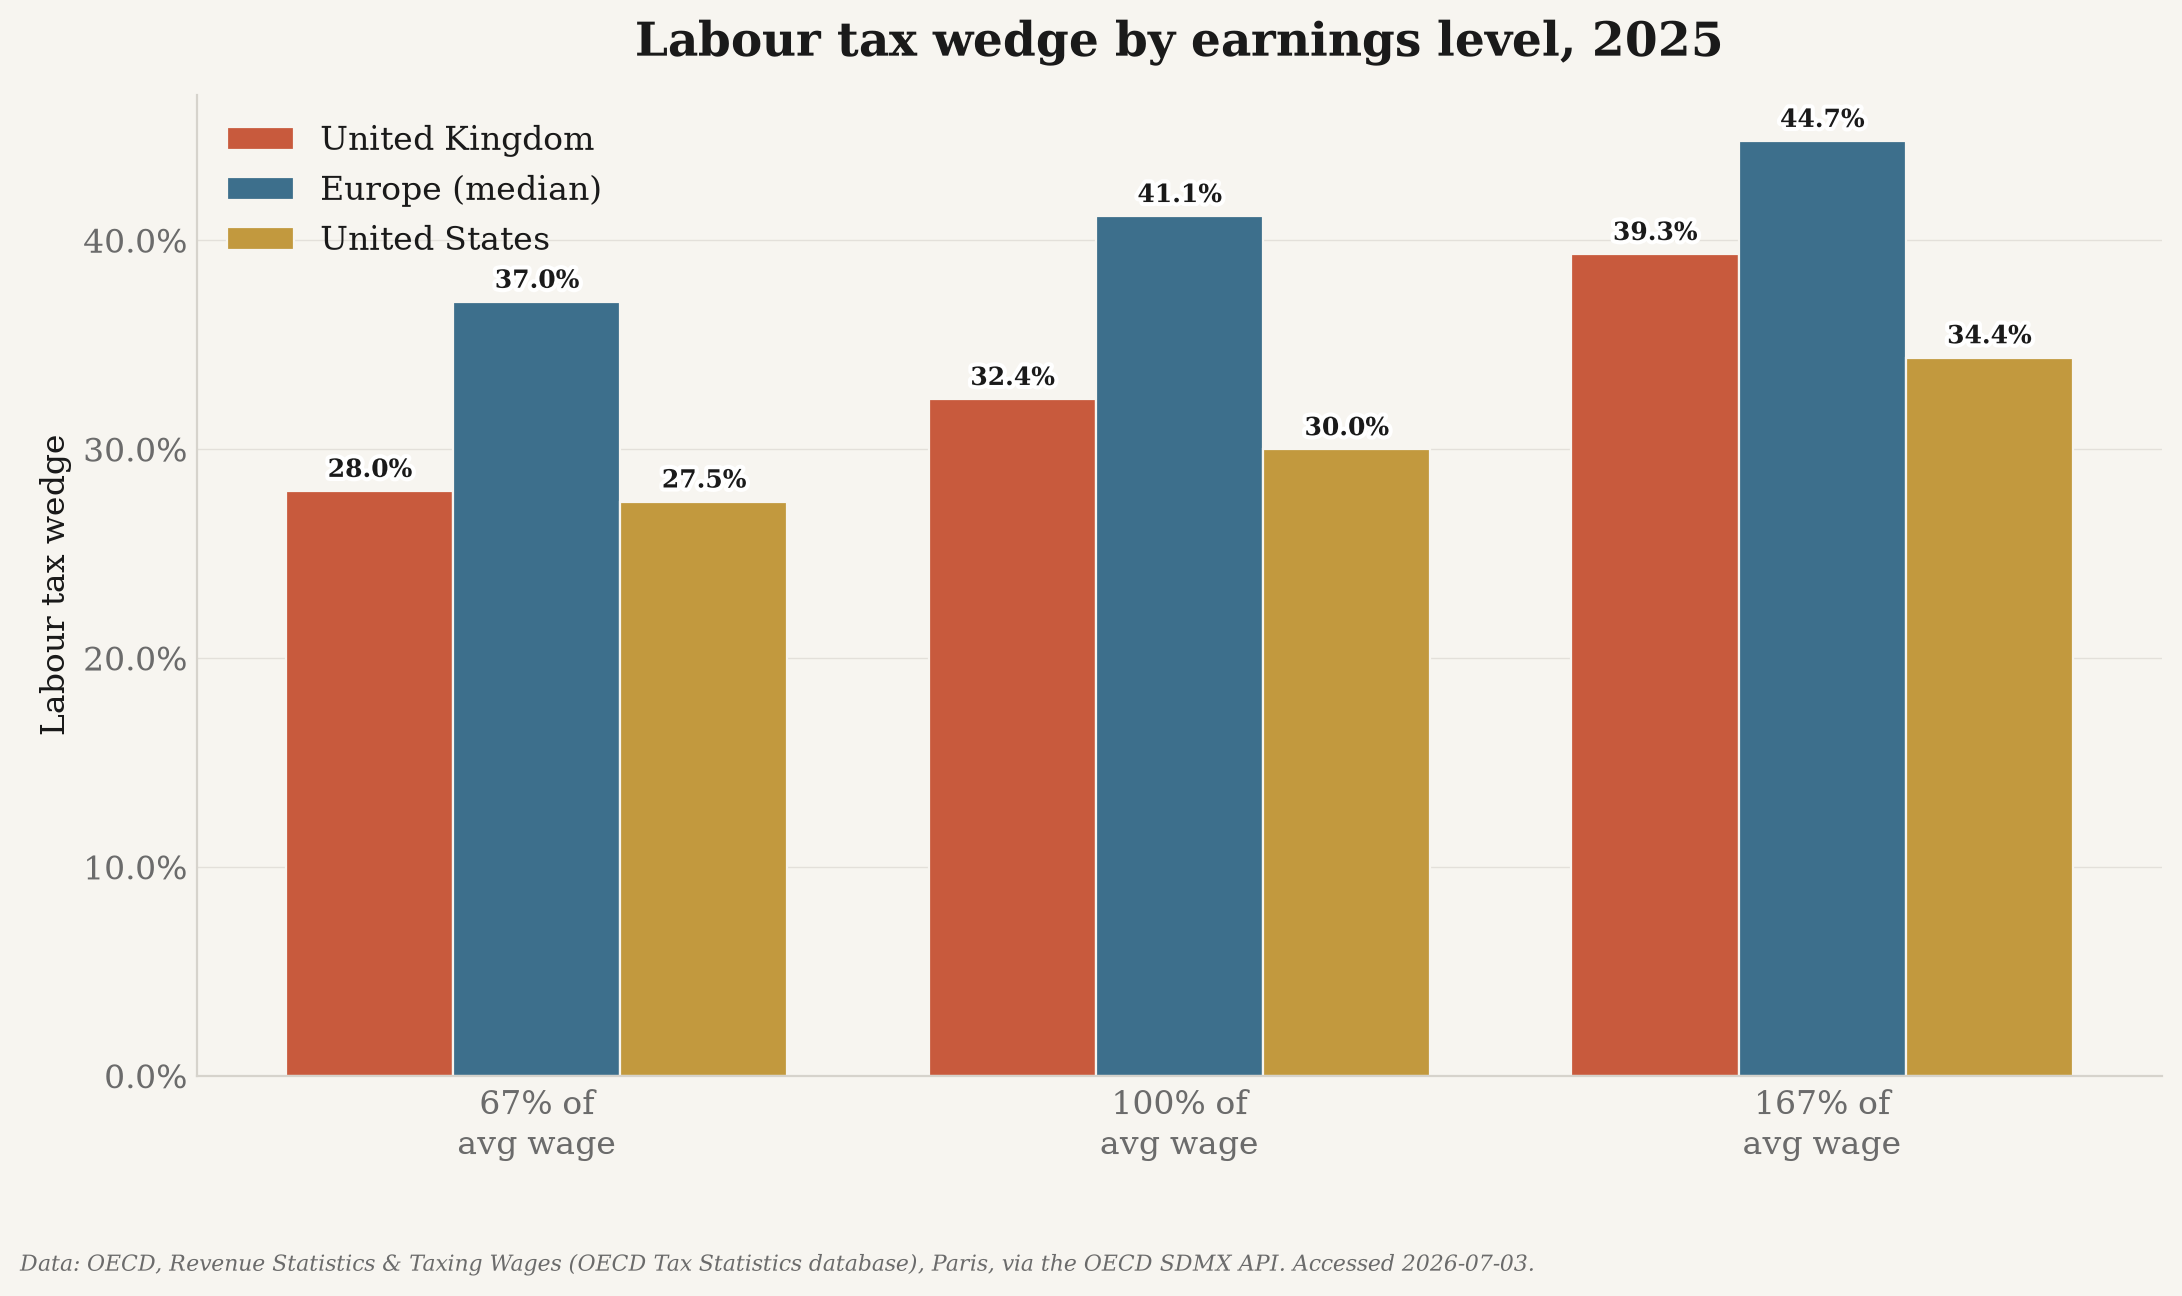
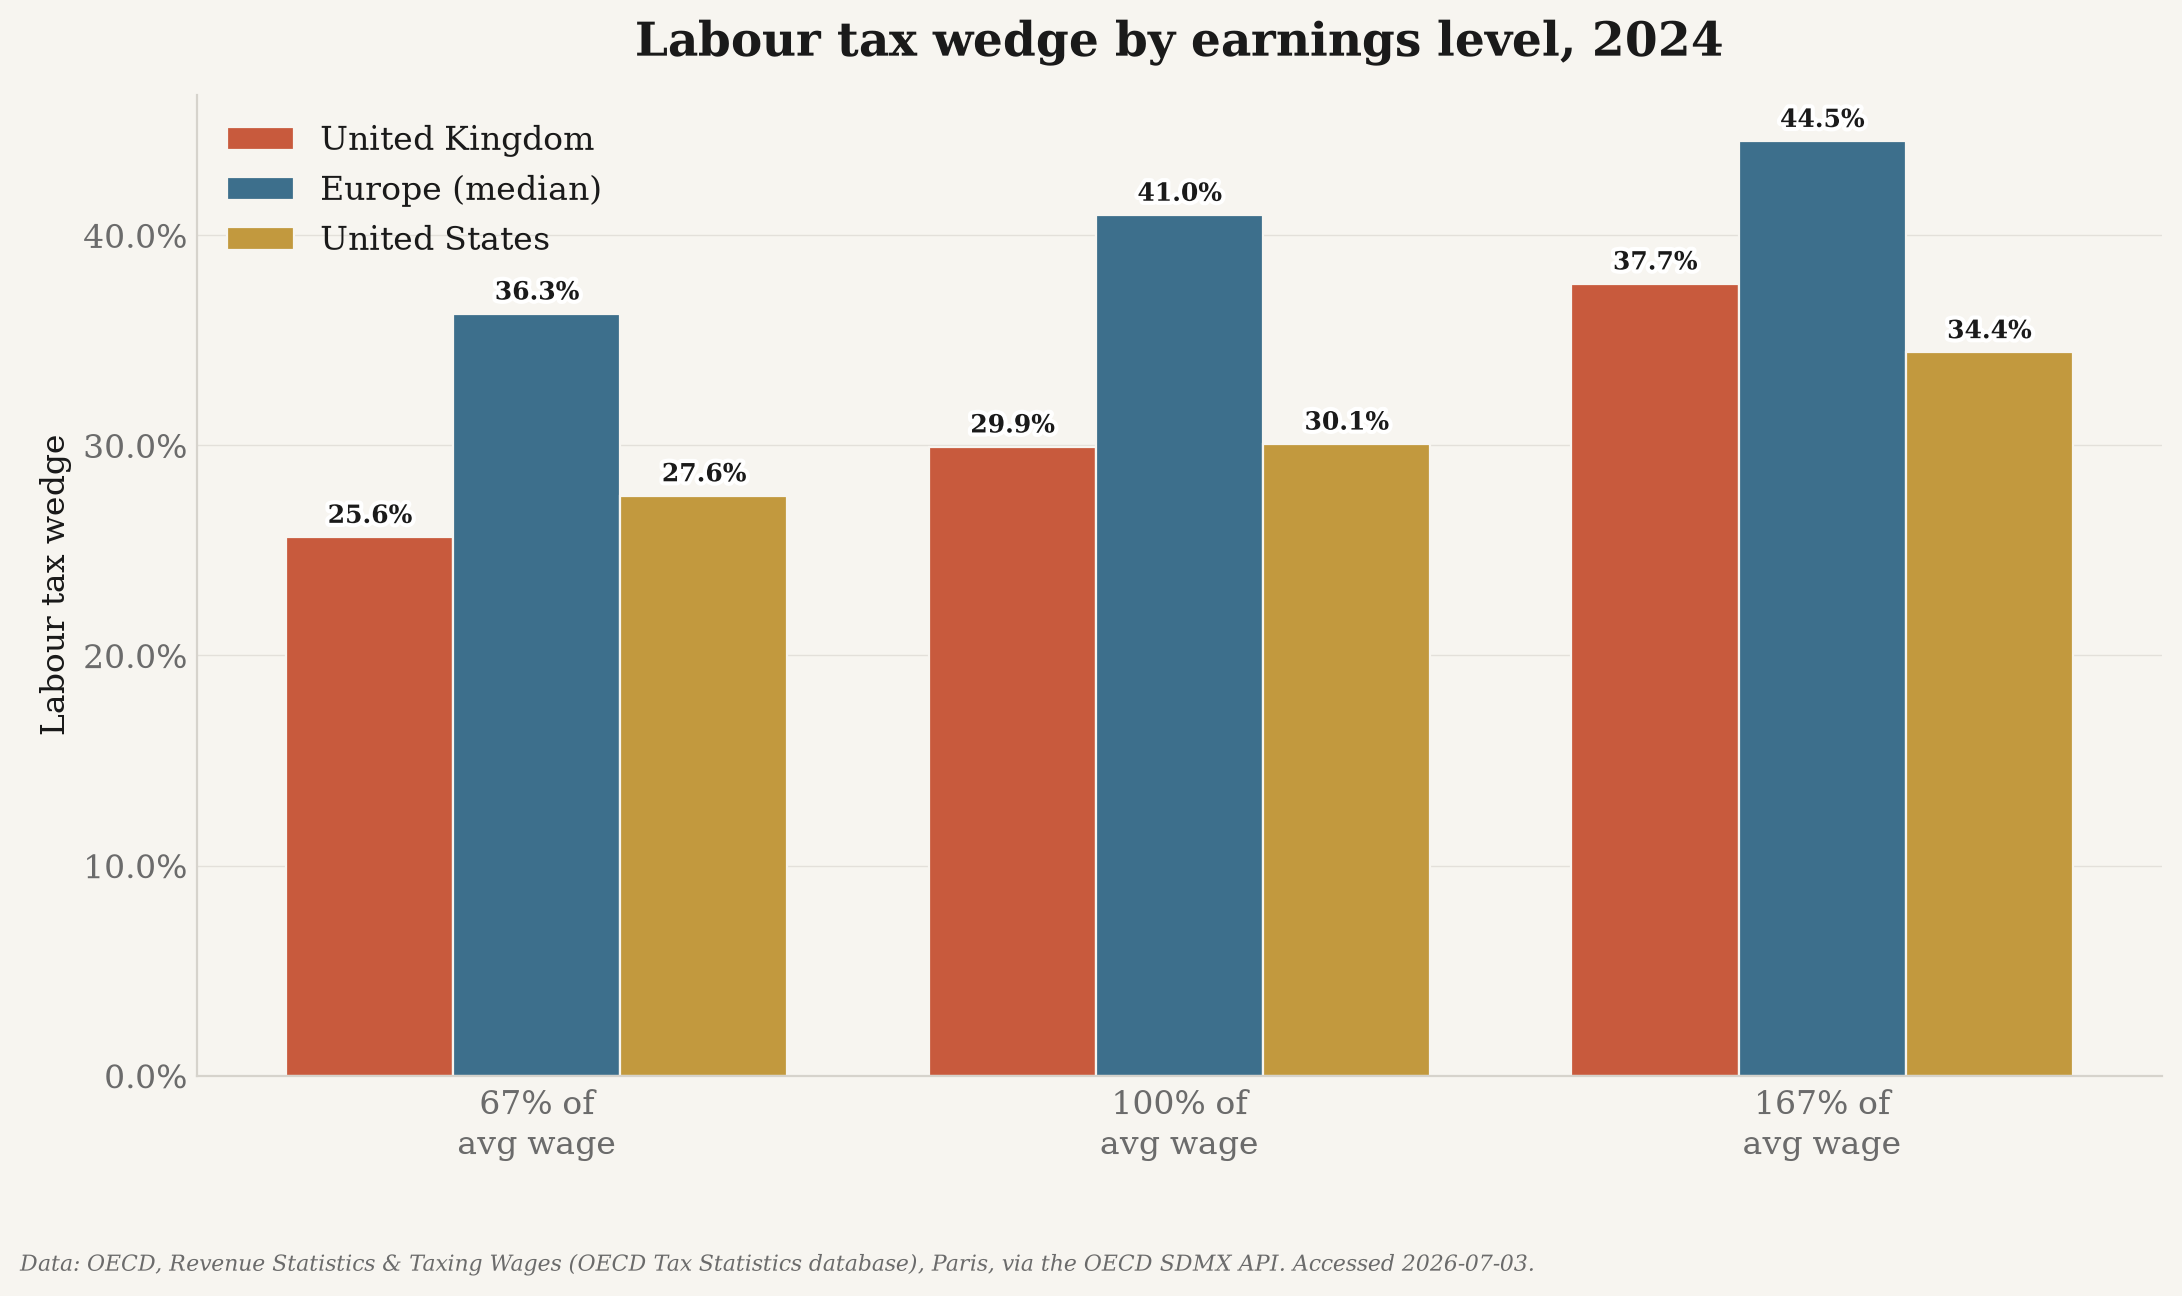
Keep tax comparisons in one observed year and clarify household measures

diff --git a/tax/charts.py b/tax/charts.py
@@ -57,18 +57,27 @@ def _region_values(recs: list[dict]) -> dict[str, Optional[float]]:
     }
 
 
-def _latest_year(recs: list[dict]) -> Optional[int]:
-    """Latest year with UK (then US) data; global max only if neither is present.
-
-    Mirrors ``tax.stats._target_year`` so charts and the printed summary pin the same
-    comparison year instead of a ragged latest OECD vintage that blanks the UK/US.
-    """
-    for iso3 in (config.UK_COUNTRY.iso3, config.US_COUNTRY.iso3):
-        years = [r["year"] for r in recs if r["iso3"] == iso3]
-        if years:
-            return max(years)
-    years = [r["year"] for r in recs]
-    return max(years) if years else None
+def _comparison_year(groups: list[list[dict]], year: Optional[int]) -> Optional[int]:
+    """Latest year shared by the plotted variants, preferring UK coverage in each."""
+    if year is not None:
+        return year
+    year_sets = []
+    for recs in groups:
+        if not recs:
+            continue
+        for iso3 in (config.UK_COUNTRY.iso3, config.US_COUNTRY.iso3):
+            years = {r["year"] for r in recs if r["iso3"] == iso3}
+            if years:
+                break
+        else:
+            years = {r["year"] for r in recs}
+        year_sets.append(years)
+    if not year_sets:
+        return None
+    common = set.intersection(*year_sets)
+    if not common:
+        raise ValueError("tax chart variants have no common comparison year; specify year explicitly")
+    return max(common)
 
 
 # --- charts -----------------------------------------------------------------
@@ -95,10 +104,7 @@ def headline_bars(rows: list[dict], out_path: str, year: Optional[int] = None) -
         (_variant_rows(rows, metric, hh, aw), label)
         for metric, hh, aw, label in variants
     ]
-    if year is None:
-        latest = [_latest_year(recs) for recs, _label in variant_rows]
-        latest = [value for value in latest if value is not None]
-        year = min(latest) if latest else None
+    year = _comparison_year([recs for recs, _label in variant_rows], year)
     labels: list[str] = []
     series: dict[str, list[float]] = {"uk": [], "europe_median": [], "us": []}
     for recs, label in variant_rows:
@@ -185,19 +191,20 @@ def tax_to_gdp_over_time(rows: list[dict], out_path: str) -> Optional[str]:
 def tax_wedge_by_earnings(rows: list[dict], out_path: str, year: Optional[int] = None) -> Optional[str]:
     """Grouped bars: single-worker tax wedge at 67/100/167% of the average wage."""
     order = [("67aw", "67% of\navg wage"), ("100aw", "100% of\navg wage"), ("167aw", "167% of\navg wage")]
+    variant_rows = [
+        (_variant_rows(rows, "tax_wedge_pct", "single_nokids", aw), label)
+        for aw, label in order
+    ]
+    year = _comparison_year([recs for recs, _label in variant_rows], year)
     labels: list[str] = []
     series: dict[str, list[float]] = {"uk": [], "europe_median": [], "us": []}
-    used_year: Optional[int] = None
-    for aw, label in order:
-        recs = _variant_rows(rows, "tax_wedge_pct", "single_nokids", aw)
-        target = year if year is not None else _latest_year(recs)
-        if target is None:
+    for recs, label in variant_rows:
+        if year is None:
             continue
-        vals = _region_values([r for r in recs if r["year"] == target])
+        vals = _region_values([r for r in recs if r["year"] == year])
         if all(v is None for v in vals.values()):
             continue
         labels.append(label)
-        used_year = used_year or target
         for k in series:
             series[k].append(vals[k])
     if not labels:
@@ -234,7 +241,7 @@ def tax_wedge_by_earnings(rows: list[dict], out_path: str, year: Optional[int] =
     ax.yaxis.set_major_formatter(mtick.PercentFormatter())
     ax.set_ylabel("Labour tax wedge")
     ax.set_title(
-        f"Labour tax wedge by earnings level, {used_year}", fontweight="bold", pad=14
+        f"Labour tax wedge by earnings level, {year}", fontweight="bold", pad=14
     )
     ax.legend(loc="upper left", frameon=False)
     return _finish(fig, ax, out_path)

diff --git a/tests/test_tax.py b/tests/test_tax.py
@@ -326,3 +326,45 @@ def test_charts_render_all_writes_pngs(tmp_path):
     written = charts.render_all(rows, str(tmp_path))
     assert len(written) == 3
     assert all(os.path.exists(p) and os.path.getsize(p) > 0 for p in written)
+
+
+def test_tax_wedge_bars_use_actual_shared_year_not_independent_latest(monkeypatch, tmp_path):
+    from tax import charts
+
+    rows = [
+        combine.make_row(
+            iso3, 2023, "tax_wedge_pct", value, "s", "single_nokids", aw,
+        )
+        for iso3 in ("GBR", "USA", "FRA")
+        for aw, value in (("67aw", 20), ("100aw", 30), ("167aw", 40))
+    ]
+    rows.extend([
+        combine.make_row("GBR", 2025, "tax_wedge_pct", 99, "s", "single_nokids", "67aw"),
+        combine.make_row("GBR", 2024, "tax_wedge_pct", 98, "s", "single_nokids", "100aw"),
+        combine.make_row("GBR", 2024, "tax_wedge_pct", 97, "s", "single_nokids", "167aw"),
+    ])
+    captured = {}
+
+    def finish(fig, ax, out_path):
+        captured["title"] = ax.get_title()
+        captured["heights"] = [patch.get_height() for patch in ax.patches]
+        charts.plt.close(fig)
+        return out_path
+
+    monkeypatch.setattr(charts, "_finish", finish)
+    charts.tax_wedge_by_earnings(rows, str(tmp_path / "wedge.png"))
+    assert captured["title"].endswith("2023")
+    assert captured["heights"][:3] == [20, 30, 40]
+
+
+def test_tax_chart_rejects_disjoint_years_instead_of_mislabeling(tmp_path):
+    from tax import charts
+
+    rows = [
+        combine.make_row(
+            "GBR", year, "tax_wedge_pct", 30, "s", "single_nokids", aw,
+        )
+        for aw, year in (("67aw", 2023), ("100aw", 2024), ("167aw", 2025))
+    ]
+    with pytest.raises(ValueError, match="no common comparison year"):
+        charts.tax_wedge_by_earnings(rows, str(tmp_path / "wedge.png"))

diff --git a/tax/README.md b/tax/README.md
@@ -1,11 +1,11 @@
-# Tax-burden sub-analysis — average & median tax burden: UK vs Europe vs US
+# Tax-burden comparison — UK vs European OECD countries vs US
 
-Part of the `uk_decline` study. Measures the **average** and **median** tax burden on
-people in the **UK**, benchmarked against the **US** and **European countries**, using
-two complementary lenses.
+Part of the `uk_decline` study. Compares the UK's **aggregate tax revenue** and
+**modelled taxes for specified household types** with the US and European OECD
+countries. European means and medians are across countries, not across individual people.
 
-> **Short answer:** the UK's tax burden sits **clearly below the European median/average
-> on every measure, and roughly level with the US.** In 2024 the UK's total tax take was
+> **Short answer:** the UK is below the European median on the headline measures shown
+> here, but the comparison with the US depends on the metric. In 2024 the UK's total tax take was
 > **34.4% of GDP** (Europe median **38.0%**, US **25.6%**), and the labour tax wedge on an
 > average-wage single worker was **32.4% in 2025** (Europe median **41.1%**, US **30.0%**).
 
@@ -17,9 +17,9 @@ two complementary lenses.
 | **Individual** | `tax_wedge_pct` | Income tax + employee **and employer** SSC − cash benefits, as a share of **total labour cost** | OECD *Taxing Wages* |
 | **Individual** | `net_personal_avg_tax_rate_pct` | Income tax + employee SSC − cash benefits, as a share of **gross wage** ("what the worker feels") | OECD *Taxing Wages* |
 
-"**Median**" is answered two ways: (a) the **cross-country median** of each metric — UK vs
-the median European country vs US, computed in `tax/stats.py`; and (b) the **average-wage
-tax wedge** as the standard proxy for the typical/median worker. The individual metrics are
+"**Median**" means the **cross-country median** of each metric — UK vs the median
+European country vs US, computed in `tax/stats.py`. The average wage is not the median
+wage, and an average-wage tax wedge is not the median person's tax burden. Individual metrics are
 reported at **67% / 100% / 167% of the average wage** (a single person, no children) plus a
 **one-earner married couple with 2 children** at 100% AW.
 
@@ -155,14 +155,15 @@ tests/test_tax.py
   payroll, VAT, corporate, property). The tax wedge / net personal rate are **modelled for a
   stylised worker** — they do **not** include VAT/consumption taxes. They answer different
   questions; read them together.
-- **"Median worker" proxy.** OECD does not publish a per-country **median-earner** wedge, so
-  the **average-wage** worker is used as the standard proxy. The 67% / 167% AW rows bracket
-  lower- and higher-paid workers.
+- **Stylised households, not median people.** The OECD average-wage worker is a modelled
+  household scenario, not a measured median earner. The 67% / 167% AW rows show
+  lower- and higher-paid scenarios; none is an estimate of median tax paid.
 - **European scope.** 25 European OECD members are included (see `tax/config.py`).
   Transcontinental Turkey is excluded, matching the geographic-Europe scope of the sibling
   `europe_data` package. The "Europe median/mean" is unweighted across these countries.
 - **Reporting vintages differ.** OECD releases arrive at different times per country; the
-  summary/charts pin the latest year for which the **UK (then US)** has data so the headline
-  is never blanked by a single country reporting one year ahead.
+  summary uses the latest UK (then US) year per variant. Grouped bar charts instead use
+  the latest year actually shared by their metric/earnings variants. They reject disjoint
+  histories unless a year is explicitly requested; missing comparators are labelled N/A.
 - **Comparability.** OECD harmonises these series, but definitions still differ at the
   margin; per-metric caveats are recorded in `data/tax_manifest.json`.
